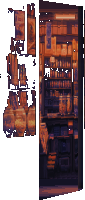
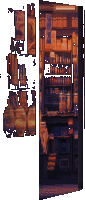
fix(street): refine dagashi-ya room on second pass
Shelves straightened without squashing (8% at most, painting as is at
the wall's last column), tube on the ceiling, ceiling and floor with
the painting's grain, softer floor light pool (also on red night),
left glass lit from the side.

diff --git a/assets/street.js b/assets/street.js
@@ -1,7 +1,7 @@
 /* mtsfj.github.io · the street (the home's hero): its scene, its systems and its events, in three.js. Loaded by index.html
    after three.min.js, at the end of the body (the page above it already parsed). */
 (function () {
-  const ASSETS = {"sky": "assets/layer_sky.webp", "city": "assets/layer_city_off.webp?v=64", "rest": "assets/lights_rest.webp?v=4", "comps": {"lamp": {"src": "assets/lamp.webp?v=3", "x": 843, "y": 134, "w": 78, "h": 54}, "win_z1_top": {"src": "assets/win_z1_top.webp?v=3", "x": 963, "y": 226, "w": 43, "h": 137}, "win_z1_violet": {"src": "assets/win_z1_violet.webp?v=3", "x": 1006, "y": 358, "w": 17, "h": 95}, "win_dojo": {"src": "assets/win_dojo.webp?v=1", "x": 51, "y": 65, "w": 34, "h": 35}, "win_z1_warm": {"src": "assets/win_z1_warm.webp?v=2", "x": 1081, "y": 288, "w": 30, "h": 136}, "z4_emblem": {"src": "assets/z4_emblem.webp?v=3", "x": 849, "y": 450, "w": 50, "h": 49}, "win_z4_shop": {"src": "assets/win_z4_shop.webp?v=5", "x": 800, "y": 538, "w": 128, "h": 138}, "win_z7_shop": {"src": "assets/win_z7_shop.webp?v=7", "x": 142, "y": 538, "w": 85, "h": 200}, "win_z7_kiosk": {"src": "assets/win_z7_kiosk.webp?v=7", "x": 230, "y": 575, "w": 40, "h": 73}, "z7_vending": {"src": "assets/z7_vending.webp?v=10", "x": 280, "y": 450, "w": 100, "h": 320}, "win_z7_up": {"src": "assets/win_z7_up.webp?v=4", "x": 216, "y": 191, "w": 95, "h": 184}, "win_z9_window": {"src": "assets/win_z9_window.webp", "x": 804, "y": 497, "w": 57, "h": 35}, "win_z9_lantern": {"src": "assets/win_z9_lantern.webp?v=7", "x": 775, "y": 559, "w": 57, "h": 87}, "z5_spill": {"src": "assets/z5_spill.webp", "x": 505, "y": 491, "w": 95, "h": 76}}};   // { sky, city, rest, comps: { name: {src, x, y, w, h} } }
+  const ASSETS = {"sky": "assets/layer_sky.webp", "city": "assets/layer_city_off.webp?v=64", "rest": "assets/lights_rest.webp?v=4", "comps": {"lamp": {"src": "assets/lamp.webp?v=3", "x": 843, "y": 134, "w": 78, "h": 54}, "win_z1_top": {"src": "assets/win_z1_top.webp?v=3", "x": 963, "y": 226, "w": 43, "h": 137}, "win_z1_violet": {"src": "assets/win_z1_violet.webp?v=3", "x": 1006, "y": 358, "w": 17, "h": 95}, "win_dojo": {"src": "assets/win_dojo.webp?v=1", "x": 51, "y": 65, "w": 34, "h": 35}, "win_z1_warm": {"src": "assets/win_z1_warm.webp?v=2", "x": 1081, "y": 288, "w": 30, "h": 136}, "z4_emblem": {"src": "assets/z4_emblem.webp?v=3", "x": 849, "y": 450, "w": 50, "h": 49}, "win_z4_shop": {"src": "assets/win_z4_shop.webp?v=5", "x": 800, "y": 538, "w": 128, "h": 138}, "win_z7_shop": {"src": "assets/win_z7_shop.webp?v=8", "x": 142, "y": 538, "w": 85, "h": 200}, "win_z7_kiosk": {"src": "assets/win_z7_kiosk.webp?v=6", "x": 230, "y": 575, "w": 40, "h": 73}, "z7_vending": {"src": "assets/z7_vending.webp?v=10", "x": 280, "y": 450, "w": 100, "h": 320}, "win_z7_up": {"src": "assets/win_z7_up.webp?v=4", "x": 216, "y": 191, "w": 95, "h": 184}, "win_z9_window": {"src": "assets/win_z9_window.webp", "x": 804, "y": 497, "w": 57, "h": 35}, "win_z9_lantern": {"src": "assets/win_z9_lantern.webp?v=7", "x": 775, "y": 559, "w": 57, "h": 87}, "z5_spill": {"src": "assets/z5_spill.webp", "x": 505, "y": 491, "w": 95, "h": 76}}};   // { sky, city, rest, comps: { name: {src, x, y, w, h} } }
   const IW = 1456, IH = 816;
   const canvas = document.getElementById('street');
   const hero = document.querySelector('.hero');

diff --git a/tools/dagashi_front.py b/tools/dagashi_front.py
@@ -15,28 +15,33 @@ VP, ce qui entre dans la boutique est horizontal, ce qui est vertical d'aplomb) 
 
 - le mur du fond, de face (il fait face à la rue qui descend : ses horizontales horizontales, ses verticales d'aplomb),
   un peu au-delà du montant du fond (son plan rejoindrait celui de la façade en x XW, derrière le montant) : les
-  pixels du peintre, chacun dans sa colonne, ses rangées remises de son linteau au pied de ses étagères (deux rayons)
-  entre le haut du mur et son pied (deux horizontales) ; chaque bord net de sa peinture (le tube, les planches, les
-  bocaux, le dessus du meuble) suivi colonne par colonne (EDGE_*) et posé exactement sur sa rangée, sans marche, les
-  rangées entre deux bords réparties entre eux (aucune doublée, quelques-unes sautées) ;
+  pixels du peintre, chacun dans sa colonne ; chaque rayon de sa peinture devient l'horizontale qu'il a à la dernière
+  colonne du mur XR (là, sa peinture telle quelle ; plus près, ses rangées resserrées de (VP_x - x) / (VP_x - XR) autour
+  de l'horizon, pas plus : moins de 8 % à la colonne la plus proche) ; ce qui dépasse en haut et en bas passe derrière le
+  plafond et le sol ; chaque bord net de sa peinture (les planches, les bocaux, le dessus du meuble) suivi colonne par
+  colonne (EDGE_*) et posé exactement sur sa rangée, sans marche, les rangées entre deux bords réparties entre eux
+  (aucune doublée, celles en trop sautées là où sa peinture est la plus unie) ;
 - le plafond, vu d'en dessous, entre le linteau (un rayon) et le haut du mur (une horizontale) : un coin plus large
-  vers le montant proche, sombre vers la porte, plus clair contre le mur où le tube l'éclaire (CEIL : ses tons, en
-  bandes horizontales, une par profondeur) ;
-- le sol, entre le pied du mur (une horizontale) et le seuil du peintre : allumé, la flaque de lumière que le peintre y
-  avait mise (près du seuil, au milieu de l'ouverture), posée à plat sur lui (en perspective : ses bords s'aplatissent),
-  en bandes nettes des tons de son sol (POOL) ; éteint, son sol à lui, chaque colonne le sien, ses rangées réparties de
-  son bord vers les étagères à son seuil sur ce coin ; le pied du mur assombri contre lui (FOOT) ;
+  vers le montant proche ; le grain du haut sombre de la pièce du peintre (CEIL_SRC, chaque pixel rapporté à ses
+  voisins : GRAIN), répété en miroir, à ses tons : sombre vers la porte, plus clair près du tube (CEIL, en bandes) ;
+- le tube du peintre au plafond, de travers à la rue (horizontal, rangée TUBE_ROW), redessiné net (sa boîte, chaque
+  rangée de la couleur médiane de la sienne, ses bouts à lui) ; allumée, sa lueur autour de lui en trois marches
+  (GLOW) ;
+- le sol, entre le pied du mur (une horizontale) et le seuil du peintre : le grain de son sol (chaque colonne de son
+  sol ramenée à FLOOR_ROWS rangées, chaque pixel rapporté à ses voisins), répété en miroir ; allumé, à la flaque de
+  lumière qu'il y avait mise (près du seuil, au milieu de l'ouverture), posée à plat sur lui (en perspective : ses
+  bords s'aplatissent), en bandes de ses tons à lui (POOL) ; éteint, à ses deux tons éteints, le plus clair vers le
+  seuil (FLOOR_OFF) ; le pied du mur assombri contre lui (FOOT) ;
 - le tableau du fond, la face intérieure du montant (de face aussi, J colonnes avant lui : le bois du montant, éclairé
   par la pièce, plus vers elle et vers le sol clair : JAMB) ; la sous-face du linteau, une rangée sombre (avec ce que la
-  pièce du peintre avait au-dessus d'elle) ; sous le montant, le seuil du peintre ;
-- le tube du peintre, redressé sur le haut du mur, redessiné net (TUBE : sa boîte, chaque rangée de la couleur médiane
-  de la sienne) ; allumée, sa lueur autour de lui en trois marches (GLOW).
+  pièce du peintre avait au-dessus d'elle) ; sous le montant, le seuil du peintre.
 
-Allumée, la pièce garde la lumière du peintre (ses couleurs mêmes), un peu plus sombre vers le haut et le bas du mur, loin
-du tube (FALL), et la ligne du plafond contre le mur (JUNCTION). La vitre de la porte de gauche reste où elle est (ses
-marchandises contre le verre, comme une vitrine), mais derrière un verre : allumée, un peu plus sombre que l'ouverture
-(GLASS_DIM) ; un reflet en biais, à peine, deux bandes nettes (SHEEN). Éteinte, comme elle est dans les calques : la
-même géométrie prise dans les pixels sombres du peintre, le plafond et le sol à leurs tons éteints.
+Allumée, la pièce garde la lumière du peintre (ses couleurs mêmes), un peu plus sombre vers le bas du mur (FALL), et la
+ligne du plafond contre le mur (JUNCTION). La vitre de la porte de gauche reste où elle est (ses marchandises contre le
+verre, comme une vitrine), mais derrière un verre (GLASS_DIM) et éclairée de côté, par l'ouverture et le tube : plus
+sombre vers la gauche et vers le bas (PANE_FALL) ; un reflet en biais, à peine, deux bandes nettes (SHEEN). Éteinte, comme
+elle est dans les calques : la même géométrie prise dans les pixels sombres du peintre, le plafond et le sol à leurs
+tons éteints.
 
 Dans layer_city_off et street_unlit (les mêmes ici : leur rapport au commit BEFORE gardé), night_far (0) et street_sun
 (0) ; écrit assets/win_z7_shop.webp (le comp de la boutique, ce qui change quand elle s'allume) et sa boîte dans
@@ -60,7 +65,8 @@ CH, CF, CT = -0.15125, 0.2155, 0.2355   # les rayons de la peinture, y = VP_y + 
                                      # (la dernière rangée du sol au-dessus)
 XW = 270                             # le plan du mur du fond rejoint celui de la façade à cette colonne (derrière le montant)
 J = 5                                # la face intérieure du montant du fond : ses colonnes
-UP = 'win_z7_shop'; UP_POS = (105, 505); UP_V = 6   # le comp de la boutique (sa place au commit BEFORE), sa version
+XR = XB - J                          # (la dernière colonne du mur : la peinture y reste telle quelle)
+UP = 'win_z7_shop'; UP_POS = (105, 505); UP_V = 8   # le comp de la boutique (sa place au commit BEFORE), sa version
 LUM = np.array([0.299, 0.587, 0.114])
 F_PX, EYE = 1250.0, 1.5              # (la focale de la vue, en pixels, estimée sur les distributeurs voisins (un mètre de large
                                      # chacun), et la hauteur de l'œil : seulement pour la lumière, en mètres)
@@ -68,13 +74,19 @@ EDGE_MIN, EDGE_RUN = 8, 4            # un bord de la peinture : un saut de clart
                                      # long de son rayon sur tant de colonnes au moins (à deux colonnes près)
 CEIL = ((0.35, 'lit'), (0.9, 'mid'), (1e9, 'dark'))   # le plafond : ses tons selon la distance au tube (m), en bandes
 TUBE = (197, 217)                    # le tube du peintre : ses colonnes (ses bouts), les rayons de ses bords haut et bas (mesurés) ;
-TUBE_RAYS = (-0.1453, -0.1370)       # redressé sur le mur, sous le plafond
+TUBE_RAYS = (-0.1453, -0.1370)       # au plafond, de travers à la rue (horizontal), sa première rangée à TUBE_ROW
+TUBE_ROW = 544
 GLOW = (0.4, 0.2, 0.08)              # allumée, sa lueur autour de lui (mur et plafond) : la part de sa couleur à 1, 2, 3 pixels
 CEIL_ON = {'lit': (118, 58, 52), 'mid': (78, 38, 44), 'dark': (45, 27, 41)}   # (allumée : près du tube, plus loin, vers la porte)
 CEIL_OFF = {'lit': (44, 27, 40), 'mid': (40, 25, 39), 'dark': (36, 24, 38)}   # (éteinte)
-POOL = ((16.6, 0.2), (0.55, 0.45), (0.72, 0.42, 0.18, 0.06, 0.0), (88, 72, 52, 33, 15))   # allumé, la flaque de lumière sur le sol :
-                                     # son centre (le long de la rue, dans la boutique, m), ses rayons, les limites de ses bandes
-                                     # (sa part), leurs tons (centiles de clarté des pixels du sol du peintre)
+POOL = ((16.6, 0.25), (0.6, 0.55), (0.7, 0.4, 0.16, 0.05, 0.0), (78, 64, 48, 32, 16))   # allumé, la flaque de lumière sur le
+                                     # sol : son centre (le long de la rue, dans la boutique, m), ses rayons, les limites de ses
+                                     # bandes (sa part), leurs tons (centiles de clarté des pixels du sol du peintre)
+FLOOR_OFF = (0.45, (35, 65))         # éteint : ses deux tons (centiles), le plus clair passé cette part du coin vers le seuil
+CEIL_SRC = (181, 196, 6)             # le grain du plafond : le haut sombre de la pièce du peintre (ses colonnes, ses rangées
+                                     # sous son linteau), à gauche de son tube
+FLOOR_SRC, FLOOR_ROWS = (190, 219), 8   # le grain du sol : les colonnes de son sol, ramenées à tant de rangées
+GRAIN = (0.78, 1.28)                 # (le grain : un pixel rapporté à ses voisins, borné)
 FOOT = 0.78                          # le pied du mur contre le sol, sa rangée (allumée et éteinte)
 JUNCTION = (0.8, 0.9)                # la ligne du plafond contre le mur : sa rangée de plafond, la première du mur (allumée)
 FALL = 0.1                           # allumée : le mur un peu plus sombre loin du tube, vers son pied (sa part perdue)
@@ -83,7 +95,8 @@ JAMB = ((71, 49, 46), (0.12, 0.3, 0.45))   # la face du montant : le bois du mon
                                      # sol clair)
 SOFFIT = 0.8                         # la sous-face du linteau : le bois sombre du montant, plus sombre encore
 PANE = (146, 547, 178, 680)          # la vitre de la porte de gauche (x0, y0, x1, y1) : ses marchandises contre le verre
-GLASS_DIM = 0.9                      # allumée : derrière ce verre, un peu plus sombre que l'ouverture
+GLASS_DIM = 0.94                     # allumée : derrière ce verre, un peu plus sombre que l'ouverture ; et éclairées de côté,
+PANE_FALL = (0.24, 0.12)             # par l'ouverture et le tube : plus sombres vers la gauche, vers le bas (leur part perdue)
 SHEEN = ((0.55, 4.0, 3.0), (0.62, 1.5, 6.0))   # le reflet en biais : (sa pente (x par rangée), sa largeur, son ajout) : une
                                      # bande large et faible, une fine un peu plus claire, nettes ; sur la vitre seule
 SHEEN_AT = (152, 560)                # (le point où passent leurs milieux)
@@ -141,16 +154,19 @@ def tracks_of(Lm):
 
 
 def col_map(x, tracks, Co, Fo, Lm):
-    """une colonne du mur : pour chacune de ses rangées, la rangée de la peinture qu'elle montre. Des repères (rangée de
-    sortie, rangée de la peinture) : le haut du mur (le linteau de la peinture), son pied (le pied de ses étagères), chaque
-    bord suivi posé sur sa rangée ; monotones, et jamais plus serrés dans la peinture qu'au mur (en cas de conflit, le bord
-    le plus court lâché). Entre deux repères, les rangées de la peinture dans l'ordre, celles en trop sautées là où elle est
-    la plus unie (là où une rangée ressemble le plus à ses voisines)"""
+    """une colonne du mur : pour chacune de ses rangées, la rangée de la peinture qu'elle montre. Chaque rayon de la peinture
+    devient l'horizontale qu'il a à la colonne XR (là, la peinture telle quelle ; ailleurs ses rangées resserrées de
+    (VP_x - x) / (VP_x - XR) autour de l'horizon, pas plus) ; des repères (rangée de sortie, rangée de la peinture) : le
+    haut et le pied du mur, chaque bord suivi posé sur sa rangée ; monotones, et jamais plus serrés dans la peinture qu'au
+    mur (en cas de conflit, le bord le plus court lâché). Entre deux repères, les rangées de la peinture dans l'ordre,
+    celles en trop sautées là où elle est la plus unie (là où une rangée ressemble le plus à ses voisines)"""
     half = lambda t: np.round(t - 0.5) + 0.5                                # (une limite entre deux rangées)
-    anc = [(half(Co), half(ray(CH, x)), 1e9), (half(Fo), half(ray(CF, x)), 1e9)]
+    K = (VP[0] - x) / (VP[0] - XR)                                           # (le rayon c au mur : sa rangée à la colonne XR)
+    anc = [(half(Co), half(VP[1] + (Co - VP[1]) * K), 1e9), (half(Fo), half(VP[1] + (Fo - VP[1]) * K), 1e9)]
     for cc, n, pts, (xa, xb) in tracks:
-        if xa <= x <= xb:
-            anc.append((half(Co + (cc - CH) / (CF - CH) * (Fo - Co)), pts.get(x, half(ray(cc, x))), n))
+        t = half(ray(cc, XR))
+        if xa <= x <= xb and half(Co) < t < half(Fo):
+            anc.append((t, pts.get(x, half(ray(cc, x))), n))
     anc.sort()
     ok = False
     while not ok:
@@ -170,6 +186,17 @@ def col_map(x, tracks, Co, Fo, Lm):
     return out
 
 
+def tile(P, i, j):                                                           # (un motif répété en miroir : son pixel (i, j))
+    h, w = P.shape[:2]; i %= 2 * h; j %= 2 * w
+    return P[i if i < h else 2 * h - 1 - i, j if j < w else 2 * w - 1 - j]
+
+
+def grain(P):                                                                # (le grain d'un motif : chaque pixel rapporté à
+    Pp = np.pad(P, ((1, 1), (1, 1), (0, 0)), mode='reflect')               # la moyenne de ses voisins, borné)
+    m = sum(Pp[a:a + P.shape[0], b:b + P.shape[1]] for a in range(3) for b in range(3)) / 9
+    return np.clip((P + 1) / (m + 1), GRAIN[0], GRAIN[1])
+
+
 def main():
     names = (('layer_city_off.webp', 'RGBA'), ('street_unlit.webp', 'RGBA'), ('night_far.webp', 'RGB'), ('street_sun.webp', 'RGB'))
     L = [load(n, m) for n, m in names]; B = [load(n, m, BEFORE) for n, m in names]
@@ -184,8 +211,8 @@ def main():
     S = {'on': on, 'off': off}; N = {k: v.copy() for k, v in S.items()}
     lit0 = np.zeros((H, W), bool); lit0[py:py + ch, px:px + cw] = cp[..., 3] > 0   # (ce que le comp allumait)
 
-    # la géométrie : le haut du mur (le linteau au plan du mur), son pied (le seuil au plan du mur) ; le mur de la peinture
-    # (entre son linteau et le pied de ses étagères) y est remis rangée par rangée, ses bords sur leurs rangées
+    # la géométrie : le haut du mur (le linteau au plan du mur), son pied (le seuil au plan du mur) ; la peinture y est
+    # redressée colonne par colonne, ses bords sur leurs rangées (col_map)
     Co, Fo = ray(CH, XW), ray(CT, XW)
     tracks = tracks_of(on @ LUM)
     first = lambda r: int(np.round(r - 0.5)) + 1                             # (la première rangée sous une ligne : son
@@ -198,7 +225,6 @@ def main():
     jt, jb = first(ray(CH, XB + 1)), last(ray(CT, XB + 1))                   # (celles de la face du montant : de face)
     a_m = EYE / CT                                                           # (l'écart de la façade à l'œil, m : le seuil)
     Zw = F_PX * a_m / (VP[0] - XW)                                           # (le mur du fond, à tant de mètres)
-    tx0, tx1 = ((t - VP[0]) * Zw / F_PX for t in TUBE)                       # (le tube, sur le mur : ses bouts, m)
     cls, tbot = {}, {}
     for x in range(XA, XB + 1):
         h0, t1 = first(ray(CH, x)), sill_row(x); tbot[x] = t1 + 0.5
@@ -210,31 +236,40 @@ def main():
         for y in range(h0 - 3, h0 + 1):                                     # (la sous-face : sa rangée, et ce que la pièce du
             if y == h0 or lit0[y, x]: cls[y, x] = 'soffit'                   # peintre avait au-dessus d'elle)
         for y in range(h0 + 1, t1 + 1): cls[y, x] = 'ceil' if y < cw0 else 'wall' if y <= fw1 else 'floor'
-    maps = {x: col_map(x, tracks, Co, Fo, on @ LUM) for x in range(XA, XB - J + 1)}
-    half = lambda t: np.round(t - 0.5) + 0.5
-    r0, r1 = (int(half(Co + (c - CH) / (CF - CH) * (Fo - Co)) + 0.5) for c in TUBE_RAYS)   # (les rangées du tube redressé)
+    maps = {x: col_map(x, tracks, Co, Fo, on @ LUM) for x in range(XA, XR + 1)}
 
-    # le sol : allumé, une flaque de lumière posée sur lui (en perspective), en bandes des tons de son sol à lui (du plus
-    # clair au plus sombre, des centiles de ses pixels)
-    fpx = {k: np.array([S[k][y, x] for x in range(XA, XB - J + 1) for y in range(first(ray(CF, x)), int(tbot[x]))]) for k in S}
+    # le plafond : le grain du haut sombre de la pièce du peintre (CEIL_SRC), répété en miroir, à ses tons (sa distance au
+    # tube, en bandes) ; le sol : le grain de son sol (chaque colonne de son sol ramenée à FLOOR_ROWS rangées), allumé à la
+    # flaque de lumière posée sur lui (en perspective), éteint à ses tons éteints (plus clair vers le seuil)
+    cx0, cx1, cdy = CEIL_SRC
+    cpat = {k: grain(np.array([[S[k][first(ray(CH, x)) + 1 + i, x] for x in range(cx0, cx1)] for i in range(cdy)])) for k in S}
+    fcols = [x for x in range(FLOOR_SRC[0], FLOOR_SRC[1])]
+    def fcol(k, x):
+        ys = list(range(first(ray(CF, x)), int(tbot[x])))
+        return [S[k][ys[int(i * len(ys) / FLOOR_ROWS)], x] for i in range(FLOOR_ROWS)]
+    fpat = {k: grain(np.array([fcol(k, x) for x in fcols]).transpose(1, 0, 2)) for k in S}
+    fpx = {k: np.array([S[k][y, x] for x in range(XA, XR + 1) for y in range(first(ray(CF, x)), int(tbot[x]))]) for k in S}
     def tones(px, pcs):
         o = px[np.argsort(px @ LUM)]; n = len(o)
         return [np.median(o[int(n * max(0, p - 5) / 100):max(int(n * max(0, p - 5) / 100) + 1, int(n * min(100, p + 5) / 100))], 0) for p in pcs]
-    ftone = {'on': tones(fpx['on'], POOL[3])}
+    ftone = {'on': tones(fpx['on'], POOL[3]), 'off': tones(fpx['off'], FLOOR_OFF[1])}
+    tx0, tx1 = ((t - VP[0]) * Zw / F_PX for t in TUBE)                       # (le tube : ses bouts, m)
+    Zt = Zw * (VP[1] - Co) / (VP[1] - (TUBE_ROW + len(TUBE_RAYS) / 2))      # (sa profondeur : celle de sa rangée au plafond)
+
     def floor_px(k, x, y):
         Z = F_PX * EYE / (y - VP[1]); X = (VP[0] - x) * Z / F_PX - a_m       # (sur le sol : le long de la rue, dans la boutique)
+        g = tile(fpat[k], y - fw1 - 1, x - XA)
         if k == 'on':
             e = np.exp(-((Z - POOL[0][0]) / POOL[1][0]) ** 2 - ((X - POOL[0][1]) / POOL[1][1]) ** 2)
-            return ftone['on'][next(i for i, lim in enumerate(POOL[2]) if e >= lim)]
-        u = (y + 0.5 - (fw1 + 0.5)) / (tbot[x] - (fw1 + 0.5))                # (éteint : sa peinture, chaque rangée la sienne
-        return S[k][int(np.floor(ray(CF, x) + u * (tbot[x] - ray(CF, x)))), x]   # le long de la colonne, de son bord vers
-                                                                             # les étagères à son seuil)
+            return ftone['on'][next(i for i, lim in enumerate(POOL[2]) if e >= lim)] * g
+        u = (y - Fo) / max(1e-6, tbot[x] - Fo)
+        return ftone['off'][0 if u < FLOOR_OFF[0] else 1] * g
 
-    def ceil_px(k, x, y):                                                    # (le plafond : sa distance au tube, en bandes)
+    def ceil_px(k, x, y):
         Z = Zw * (VP[1] - Co) / (VP[1] - y); X = (x - VP[0]) * Z / F_PX
-        d = np.hypot(max(0.0, tx0 - X, X - tx1), Zw - Z)
+        d = np.hypot(max(0.0, tx0 - X, X - tx1), Zt - Z)
         band = next(b for lim, b in CEIL if d < lim)
-        return np.array((CEIL_ON if k == 'on' else CEIL_OFF)[band], float)
+        return np.array((CEIL_ON if k == 'on' else CEIL_OFF)[band], float) * tile(cpat[k], y - cw0, x - XA)
 
     for (y, x), c in cls.items():
         for k in S:
@@ -259,26 +294,33 @@ def main():
                 col = S[k][y, x]
             N[k][y, x] = col
 
-    # le tube, redessiné net : chaque rangée de sa boîte (entre ses deux bords) de la couleur médiane de la rangée de même
-    # rang du tube du peintre, le long de ses rayons ; ses bouts, ceux du peintre
-    for y in range(r0, r1):
-        for k in S:
-            row = [S[k][first(ray(TUBE_RAYS[0], xs)) + y - r0, xs] for xs in range(TUBE[0] + 1, TUBE[1])]
-            for x in range(TUBE[0], TUBE[1] + 1):
-                N[k][y, x] = np.median(row, 0) if TUBE[0] < x < TUBE[1] else S[k][first(ray(TUBE_RAYS[0], x)) + y - r0, x]
-
-    # allumée, sa lueur autour de lui, sur le mur et le plafond, en marches (GLOW : la part de sa couleur, à 1, 2, 3 pixels)
-    tcol = np.median([S['on'][first(ray(TUBE_RAYS[0], xs)), xs] for xs in range(TUBE[0] + 1, TUBE[1])], 0)
+    # le tube, au plafond (de travers à la rue : horizontal), redessiné net : chaque rangée de sa boîte de la couleur médiane
+    # de la rangée de même rang du tube du peintre, le long de ses rayons ; ses bouts, ceux du peintre ; là où le plafond se
+    # voit (sous la sous-face)
+    nt = int(round(ray(TUBE_RAYS[1], 207) - ray(TUBE_RAYS[0], 207))) + 1     # (ses rangées)
+    tcol = {k: [np.median([S[k][first(ray(TUBE_RAYS[0], xs)) + i, xs] for xs in range(TUBE[0] + 1, TUBE[1])], 0) for i in range(nt)] for k in S}
+    tube = set()
+    for i in range(nt):
+        y = TUBE_ROW + i
+        for x in range(TUBE[0], TUBE[1] + 1):
+            if cls.get((y, x)) != 'ceil': continue
+            for k in S:
+                N[k][y, x] = tcol[k][i] if TUBE[0] < x < TUBE[1] else S[k][first(ray(TUBE_RAYS[0], x)) + i, x]
+            tube.add((y, x))
+    # allumée, sa lueur autour de lui, sur le plafond et le haut du mur, en marches (GLOW : la part de sa couleur à 1, 2, 3 px)
+    tc = tcol['on'][0]
     for (y, x), c in cls.items():
-        if c in ('wall', 'ceil') and not (r0 <= y < r1 and TUBE[0] <= x <= TUBE[1]):
-            d = max(TUBE[0] - x, x - TUBE[1], r0 - y, y - (r1 - 1), 0)
-            if 1 <= d <= len(GLOW): N['on'][y, x] = N['on'][y, x] + (tcol - N['on'][y, x]) * GLOW[d - 1] * (N['on'][y, x] @ LUM < tcol @ LUM)
+        if c in ('wall', 'ceil') and (y, x) not in tube:
+            d = max(TUBE[0] - x, x - TUBE[1], TUBE_ROW - y, y - (TUBE_ROW + nt - 1), 0)
+            if 1 <= d <= len(GLOW) and N['on'][y, x] @ LUM < tc @ LUM: N['on'][y, x] = N['on'][y, x] + (tc - N['on'][y, x]) * GLOW[d - 1]
 
-    # la vitre de la porte de gauche : allumée, un peu plus sombre ; un reflet en biais, à peine, sur le verre seul
+    # la vitre de la porte de gauche : allumée, plus sombre loin de l'ouverture et du tube (vers la gauche, vers le bas :
+    # ses marchandises éclairées de côté) et derrière un verre ; un reflet en biais, à peine, sur le verre seul
     gx0, gy0, gx1, gy1 = PANE
     for y in range(gy0, gy1):
         for x in range(gx0, gx1):
-            if lit0[y, x]: N['on'][y, x] *= GLASS_DIM
+            if lit0[y, x]:
+                N['on'][y, x] *= GLASS_DIM * (1 - PANE_FALL[0] * (gx1 - 1 - x) / (gx1 - 1 - gx0)) * (1 - PANE_FALL[1] * (y - gy0) / (gy1 - gy0))
     glass = np.zeros((H, W), bool)
     for y in range(gy0, gy1):
         for x in range(gx0, gx1):
@@ -309,8 +351,9 @@ def main():
                       f'"{UP}": {{"src": "assets/{UP}.webp?v={UP_V}", "x": {bx}, "y": {by}, "w": {bw}, "h": {bh}}}', s_)
     assert n_s == 1, 'street.js : le comp de la boutique est introuvable'
     open(A('street.js'), 'w', encoding='utf-8').write(s_)
+    worst = max((max(m.values()) - min(m.values()) + 1) / len(m) for m in maps.values())   # (les rangées de la peinture par rangée du mur)
     print('ouverture', XB - XA + 1, 'colonnes |', len(tracks), 'bords suivis | mur', cw0, '..', fw1, '| montant', jt, '..', jb,
-          '| comp', (bx, by, bw, bh), int(diff.sum()), 'px')
+          '| resserrement des étagères au plus %.1f %%' % (100 * (worst - 1)), '| comp', (bx, by, bw, bh), int(diff.sum()), 'px')
 
 
 if __name__ == '__main__':

diff --git a/README.md b/README.md
@@ -36,7 +36,7 @@ tools/e33_monolith.py    le Monolithe (Clair Obscur : Expedition 33), son sommet
 tools/e33_banner.py      la bannière de l'Expédition au balcon de la maison du fond (dessin : tools/src/e33_banner_v2_33.webp) et la plaque près de sa porte ; la lanterne éclaire sa pointe (win_z9_lantern.webp) ; ce qu'elle couvre gardé dans tools/src/e33_banner_under.png
 tools/e33_walker.py      le passant du Gommage (assets/e33_walker.webp) : marche de profil sous un parapluie, 16 images, l'arrêt, le dos tourné face au Monolithe ; l'ordre de ses pixels dans le Gommage
 tools/r6_sprites.py      les sprites du clin d'œil R6 : le drone (assets/r6_drone.webp, ses normales r6_drone_n.webp) et la petite caméra murale (r6_cam.webp), dessinés pixel par pixel d'après des modèles mesurés sur des vrais (un robot de reconnaissance lançable, un dôme de surveillance), et le boîtier de l'écran des caméras (r6_panel, r6_bezel, r6_key, r6_key_on, r6_ant .webp)
-tools/dagashi_front.py   le dagashi-ya sous Kirua : par sa porte ouverte une vraie boutique, vue de la rue (le mur du fond de face, ses étagères redressées pixel par pixel, le plafond et le sol en coin, la face du montant, le tube redressé) ; sa vitre de gauche derrière un verre (assets/win_z7_shop.webp)
+tools/dagashi_front.py   le dagashi-ya sous Kirua : par sa porte ouverte une vraie boutique, vue de la rue (le mur du fond de face, ses étagères redressées pixel par pixel sans être tassées, le plafond et le sol en coin au grain de sa peinture, le tube au plafond, la face du montant) ; sa vitre de gauche derrière un verre, éclairée de côté (assets/win_z7_shop.webp)
 tools/tabako_window.py   la fenêtre du tabac (mur de face) : une petite cabine derrière la vitre (le tableau du cadre, la paroi gauche, le fond poussé vers le point de fuite et coupé par le cadre droit, la lumière qui baisse vers le bas, un reflet) (assets/win_z7_kiosk.webp)
 cv.pdf                  CV
 favicon.png, og.png     icône et image de partage
